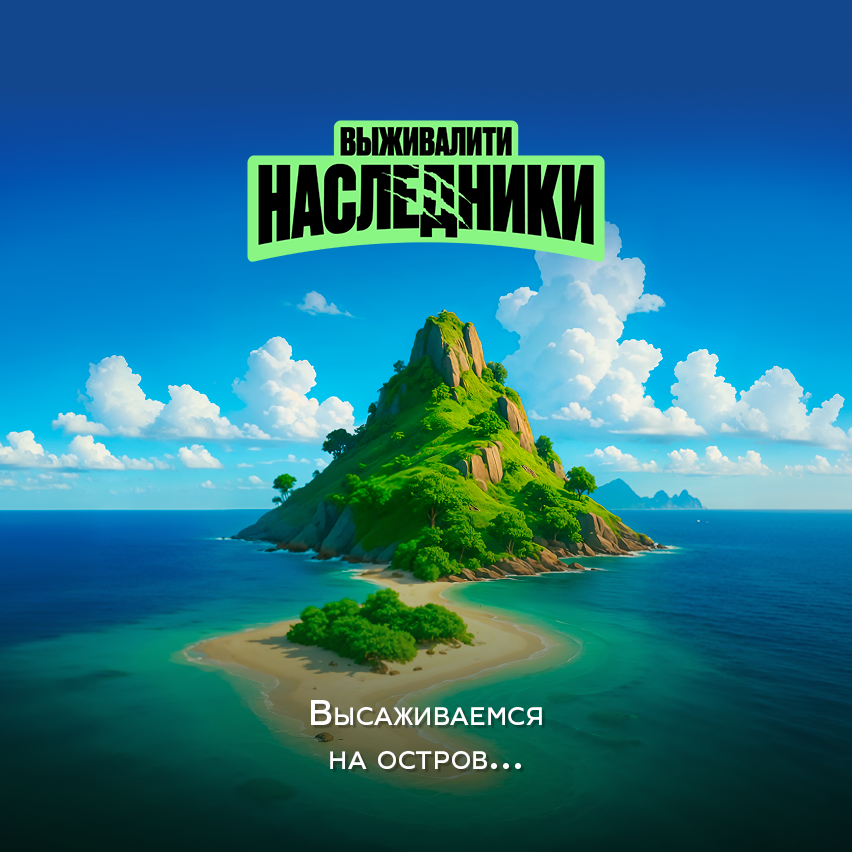
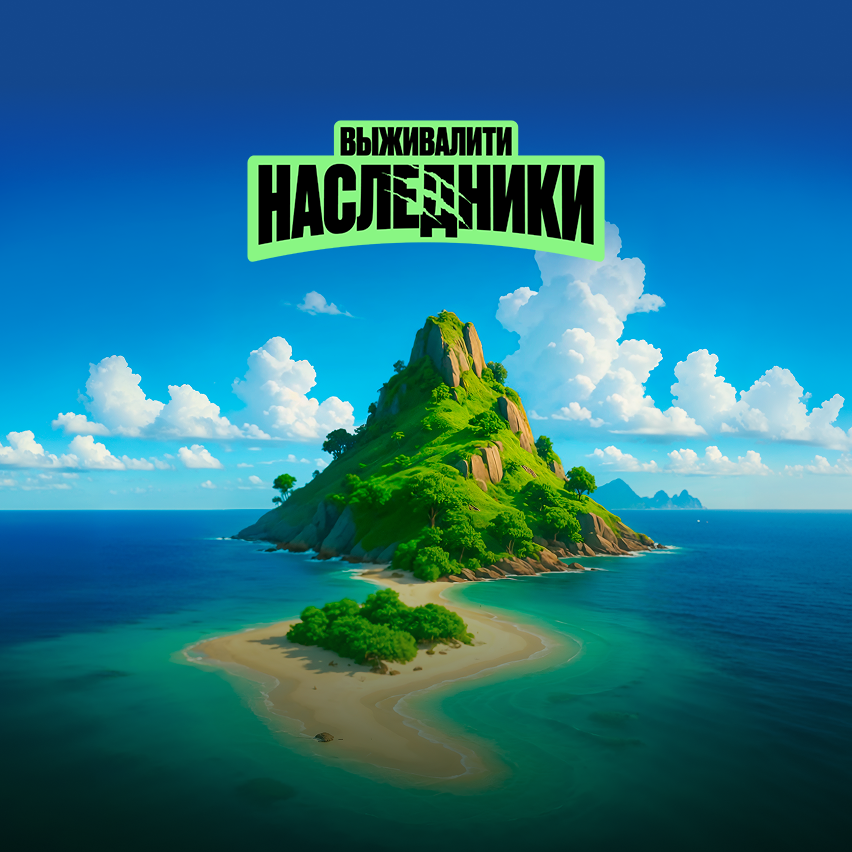
Add files via upload

Changed region(s): [[0.3662, 0.8239, 0.6408, 0.9155]]

diff --git a/Pig/index.html b/Pig/index.html
@@ -14,10 +14,11 @@
       <canvas id="unity-canvas" width={{{ WIDTH }}} height={{{ HEIGHT }}} style="width: 100%; height: 100%; background: url('./TemplateData/bg.png'); background-attachment: fixed; background-size: auto 100%;background-position: center center;" ></canvas>
       <div id="unity-loading-bar">
         <div id="unity-logo">
-          <h1  id="progressText" style="color:white; font-size: 36px;">0%</h1>
+          <h1  id="progressText" style="color:white; font-size: 41px;text-shadow: 1px 1px 2px #333333;">0%</h1>
         </div>
         <div id="unity-progress-bar-empty">
           <div id="unity-progress-bar-full"></div>
+          <p  id="text" style="line-height: 1;font-family:'lack';color:white; font-size: 24px;display: flex; justify-content: center;text-align: center;  align-items: center;text-shadow: 1px 1px 2px #333333;">Высаживаемся<br>на остров...</p>
         </div>
       </div>
       <div id="unity-warning"> </div>
@@ -89,8 +90,8 @@
             });
         };
       document.body.appendChild(script);
-      
-        
+
+
       function progressFloatToInt(progr){
         var a = Math.floor(progr);
         if (a>94) a = 94;
@@ -123,7 +124,7 @@
             const isMobile = /iPhone|iPad|iPod|Android/i.test(navigator.userAgent);
             const commText = 'Собирай предметы для выживания в игре — забирай призы в реальной жизни. Присоединяйся к битве на острове «Наследников»!\n';
             const text = refLink;
-            
+
             if (navigator.clipboard && navigator.clipboard.writeText) {
                 navigator.clipboard.writeText(commText+text).catch(() => {
                   fallbackCopyText(commText+text);

diff --git a/Pig/TemplateData/style.css b/Pig/TemplateData/style.css
@@ -5,7 +5,7 @@ body { padding: 0; margin: 0 }
 #unity-canvas { background: #231F20 }
 .unity-mobile #unity-canvas { width: 100%; height: 100% }
 #unity-loading-bar { position: absolute; left: 50%; top: 75%; transform: translate(-50%, -50%); display: none }
-#unity-logo { font-family:'lack'; width: 270px; height: 50px; display: flex; justify-content: center;  align-items: center;}
+#unity-logo { font-family:'lack'; width: 270px; height: 49px; display: flex; justify-content: center;  align-items: center;}
 #unity-progress-bar-empty { width: 270px; height: 18px; margin-top: 10px; border-radius: 25px; background: url('progress-bar-empty-dark.png') no-repeat center }
 #unity-progress-bar-full { width: 0%; height: 10px; margin-top: 10px;border-radius: 25px; border: 4px solid #66ff66; background: url('progress-bar-full-dark.png') no-repeat center }
 #unity-footer { position: relative }
